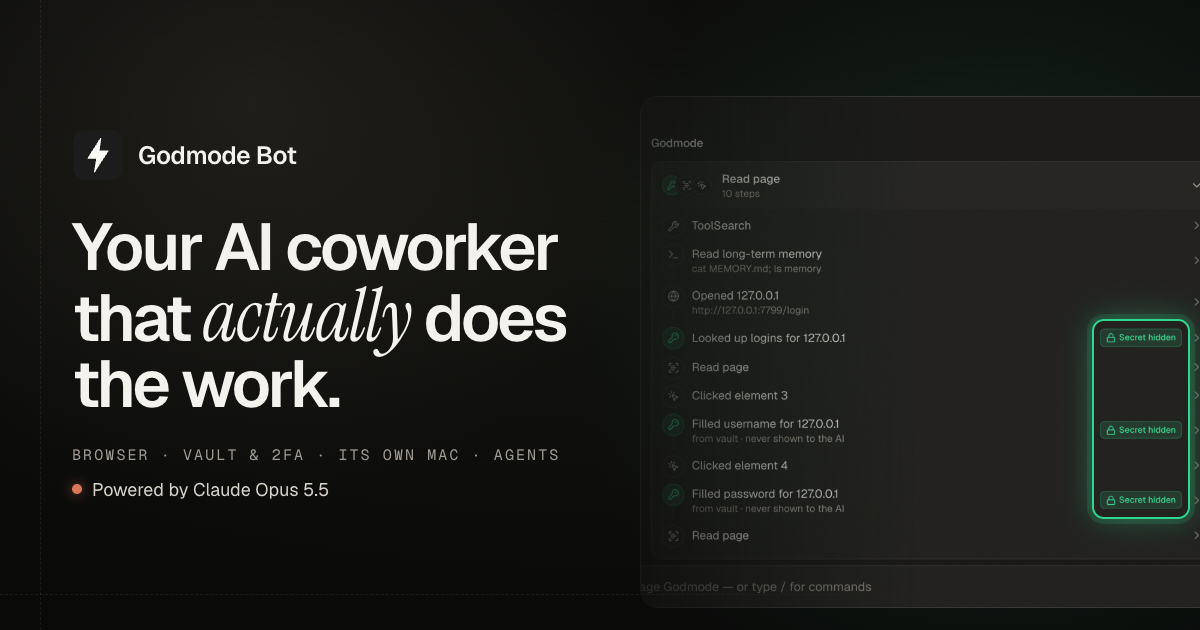
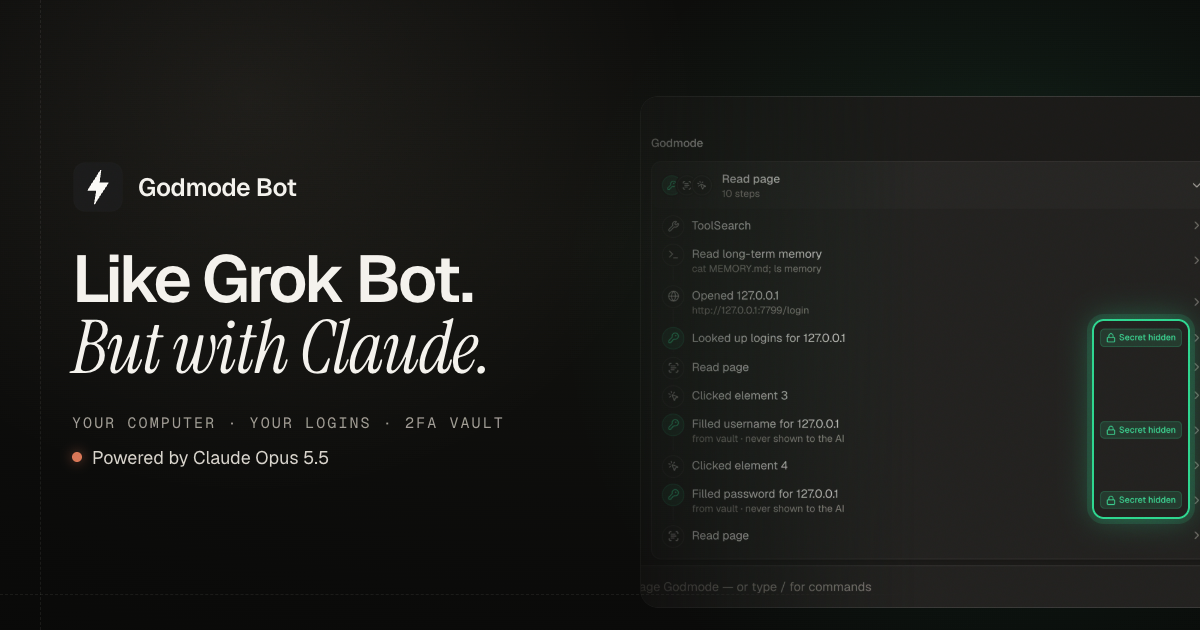
Position Godmode as Grok Bot with Claude on the homepage and share image

Changed region(s): [[0.0617, 0.2111, 0.4933, 0.7841], [0.1233, 0.2111, 0.2467, 0.3317], [0.4317, 0.6937, 0.4625, 0.7238]]

diff --git a/apps/website/video/og-image/index.html b/apps/website/video/og-image/index.html
@@ -43,8 +43,8 @@
         <div id="shot"><div class="ftb"><div class="traffic color"><i></i><i></i><i></i></div></div><img src="assets/screens/chat.png" alt="" /><div id="hl"></div></div>
         <div id="left">
           <div class="brandrow"><div class="logo" data-logo></div><b>Godmode Bot</b></div>
-          <h1 class="headline" id="h">Your AI coworker that <span class="serif">actually</span> does the work.</h1>
-          <div class="sub">Browser · Vault &amp; 2FA · Its own Mac · Agents</div>
+          <h1 class="headline" id="h">Like Grok Bot.<br><span class="serif">But with Claude.</span></h1>
+          <div class="sub">Your computer · Your logins · 2FA vault</div>
           <div class="by"><span class="claude-dot"></span>Powered by Claude Opus 5.5</div>
         </div>
         <div class="grain" data-layout-ignore></div>

diff --git a/apps/website/src/config/site.ts b/apps/website/src/config/site.ts
@@ -5,9 +5,9 @@ export const SITE = {
   name: 'Godmode',
   product: 'Godmode Bot',
   url: import.meta.env.SITE ?? 'https://usegodmode.com',
-  title: 'Godmode — the AI coworker that works like a human on your Mac',
+  title: 'Godmode — like Grok Bot, but with Claude',
   description:
-    'Godmode turns Claude Opus 5.5 into a coworker that uses your computer like you do: your browser and logins, apps in the background, even its own Mac. Hand over the work. Get it back done.',
+    'Godmode is like Grok Bot, but with Claude: Claude Opus 5.5 as a coworker that uses your own computer like you do. Your browser and logins, apps in the background, even its own Mac. Hand over the work. Get it back done.',
   email: 'kontakt@codext.de',
   model: 'Claude Opus 5.5',
 } as const;
